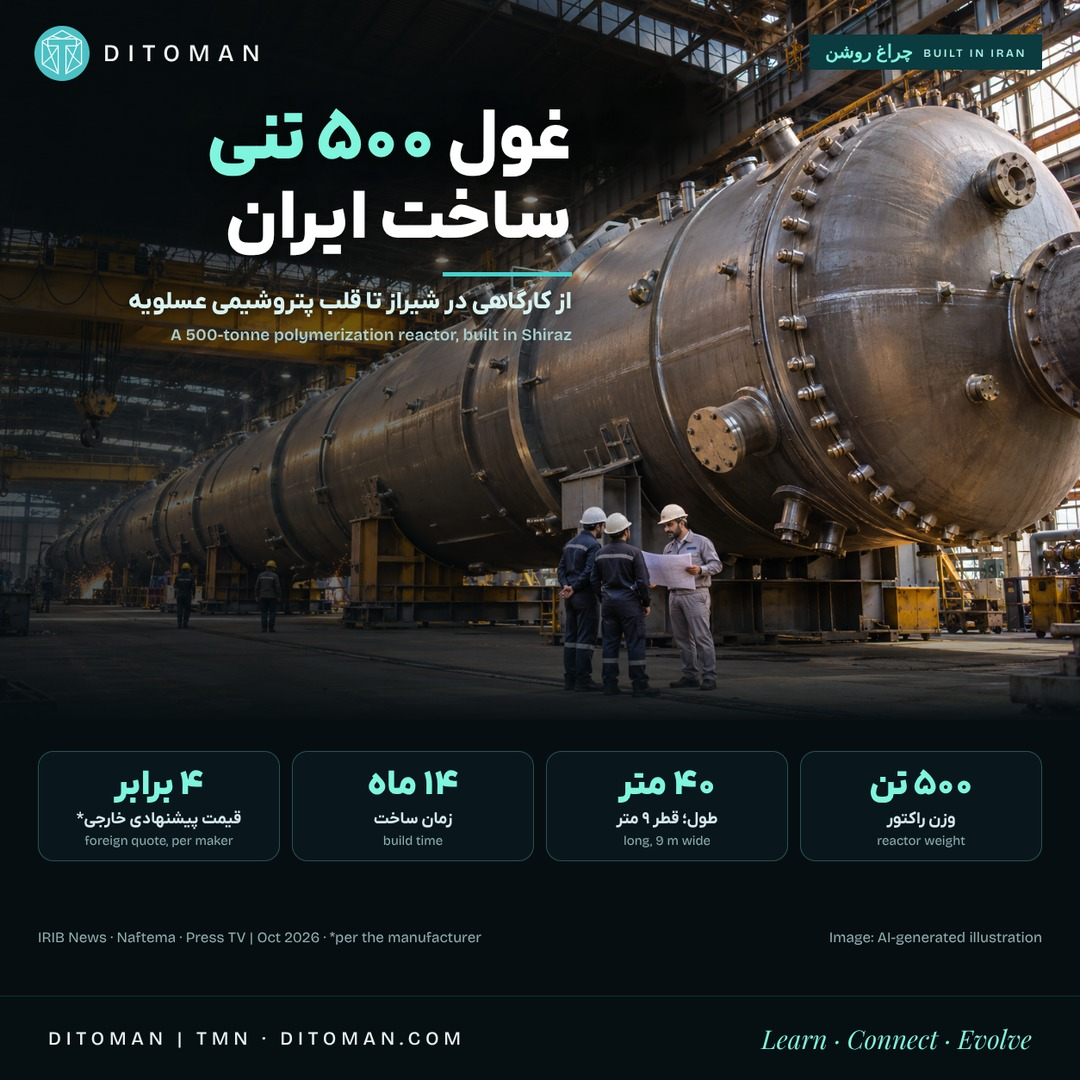
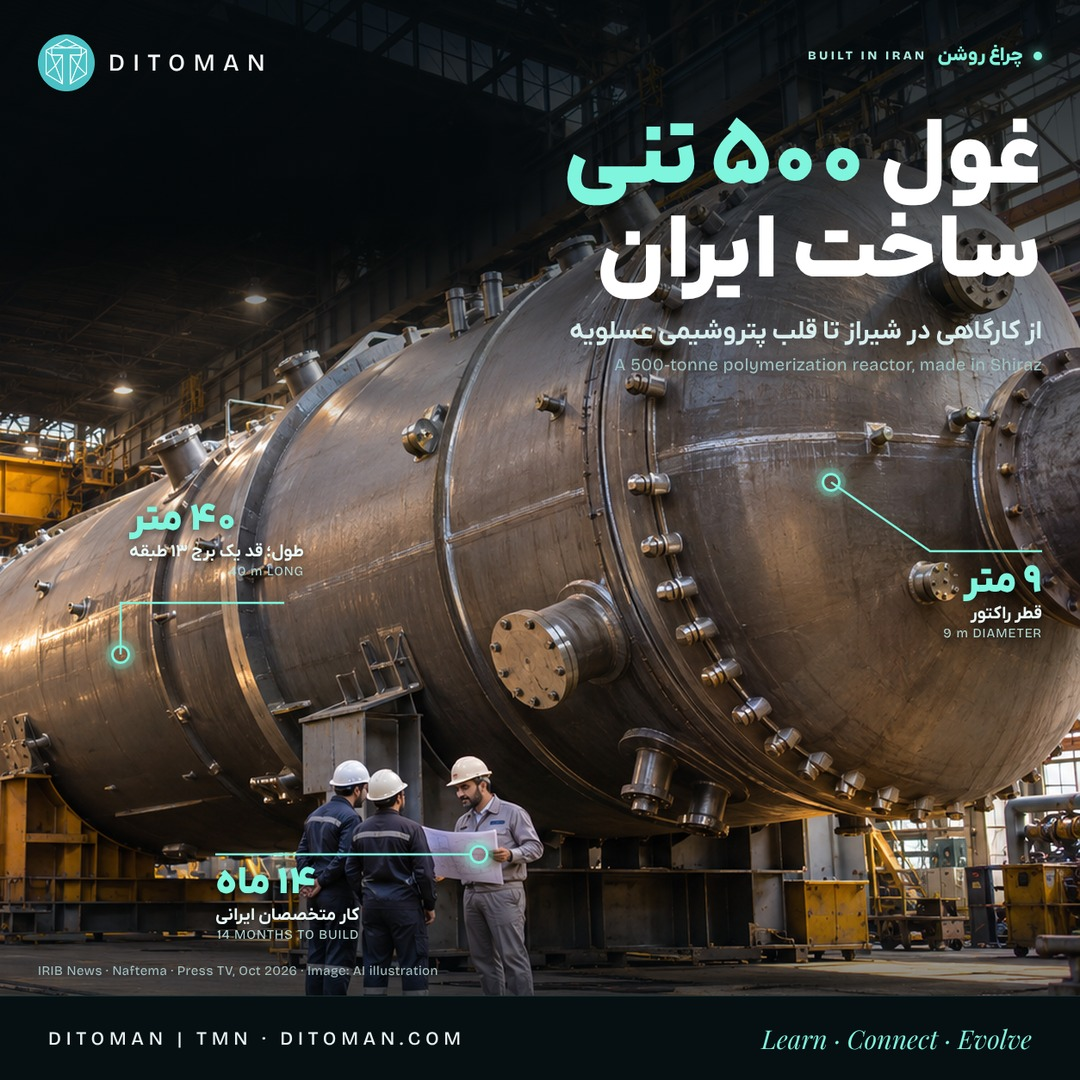
Reactor story: new annotated cover, fuller two-part Telegram draft
Claude-Session: https://claude.ai/code/session_012uZ8KiEEJt1CcpRZeg7KSX

diff --git a/telegram/drafts/2026-11-08-03-fateh-reactor.md b/telegram/drafts/2026-11-08-03-fateh-reactor.md
@@ -1,49 +1,35 @@
 image: social/fateh-reactor/post.png
 
-🇮🇷 غول ۵۰۰ تنی ساخت ایران؛ از کارگاه شیراز تا قلب صنعت پتروشیمی
+🇮🇷 غول ۵۰۰ تنی ساخت ایران؛ از کارگاه شیراز تا قلب صنعت پتروشیمی (۱ از ۲)
 
-تصور کنید سازهای فولادی، تقریباً به طول یک ساختمان ۱۳ طبقه، باید ساخته شود؛ با وزن حدود ۵۰۰ تن، برای کار در قلب یک واحد پتروشیمی.
+تصور کنید سازهای فولادی، تقریباً به طول یک ساختمان ۱۳ طبقه، باید ساخته شود؛ سازهای با وزن حدود ۵۰۰ تن که قرار است در قلب یک واحد پتروشیمی کار کند.
 
-طبق گزارشهای مهر ۱۴۰۵، متخصصان ایرانی چنین راکتوری را در کارگاه شرکت فاتح صنعت در شیراز ساختهاند و آمادهی انتقال و نصب در عسلویه است:
-▫ طول حدود ۴۰ متر و قطر ۹ متر
-▫ زمان ساخت حدود ۱۴ ماه (طبق یک گزارش صنعتی)
+طبق گزارشهای منتشرشده در مهر ۱۴۰۵، چنین راکتوری به دست متخصصان ایرانی در کارگاه شرکت فاتح صنعت در شیراز ساخته شده و برای انتقال و نصب در عسلویه آماده است. برخی گزارشها کارفرما را پتروشیمی آریاساسول معرفی کردهاند؛ گزارش رسمی نام کارفرما را نیاورده است.
+
+📐 مشخصات اعلامشده
+▫ وزن: حدود ۵۰۰ تن
+▫ طول: حدود ۴۰ متر؛ قطر: ۹ متر
+▫ زمان ساخت: حدود ۱۴ ماه (طبق یک گزارش صنعتی)
 ▫ نورد ورق فولادی تا ضخامت حدود ۳۱۰ میلیمتر
-▫ به گفتهی سازنده، قیمت پیشنهادی خارجی برای تجهیز مشابه حدود ۴ برابر هزینهی ساخت داخلی بود
-برخی گزارشها کارفرما را پتروشیمی آریاساسول گفتهاند؛ گزارش رسمی نام کارفرما را نیاورده است.
+مهدی قطبی، مدیر شرکت سازنده، گفته راکتور کاملاً به دست متخصصان ایرانی ساخته شده و به گفتهی او پیش از این فقط ژاپن، آلمان و چین فناوری ساخت چنین راکتوری را داشتند. این ادعای سازنده است و فهرست مستقلی برای آن پیدا نکردیم.
+
+🧪 این سازه فقط یک مخزن بزرگ نیست
+نامش راکتور پلیمریزاسیون است؛ تجهیزی که در آن، مواد اولیه طی یک فرایند کنترلشده به پلیمر تبدیل میشوند.
 
 🏭 راکتور چه ربطی به زندگی ما دارد؟
-این یک راکتور پلیمریزاسیون است: مواد اولیه درونش با کنترل دقیق دما و فشار به پلیمر تبدیل میشوند. پلیمرها در لولهی آب، بستهبندی غذا، قطعات خودرو، عایق کابل و بعضی تجهیزات پزشکی هستند. نوع پلیمر و ظرفیت این راکتور هنوز اعلام نشده است.
+پلیمرها خانوادهی بزرگی از موادند که در زندگی روزمرهی همهی ما حضور دارند: از لولههای آب و بستهبندی مواد غذایی تا قطعات خودرو، عایق سیم و کابل و بعضی تجهیزات پزشکی.
+درون راکتور، دما و فشار باید بهدقت کنترل شود تا واکنش شیمیایی ایمن انجام شود و محصول کیفیت لازم را داشته باشد. هرچه راکتور بزرگتر باشد، ساختش به ورق ضخیمتر، جوشکاری دقیقتر و بازرسی سختگیرانهتری نیاز دارد.
+نوع دقیق پلیمر، فشار کاری و ظرفیت تولید این راکتور هنوز اعلام نشده؛ پس نمیشود گفت مشخصاً مواد اولیهی کدام کالاها را میسازد.
 
-💵 ارزش ارزی از سه مسیر
-1⃣ کاهش واردات: ارزی که برای خرید خارجی لازم بود، در کشور میماند (رقم واقعی بعد از کسر قطعات و خدمات وارداتی معلوم میشود)
-2⃣ صادرات تجهیزات و خدمات: طبق «میز انرژی»، گروه سازنده پیشتر در عمان، آذربایجان و ترکیه کار کرده است
-3⃣ صادرات محصول: آریاساسول طبق گزارش ۱۴۰۲ بیش از ۷۰٪ محصولش را صادر میکرد
+💵 این پروژه چطور برای ایران ارزش ارزی ایجاد میکند؟ سه مسیر جدا:
 
-🌍 چه کسانی چنین تجهیزاتی میسازند؟
-به گفتهی مدیر شرکت سازنده، پیشتر فقط ژاپن، آلمان و چین چنین راکتوری ساخته بودند؛ نمونهها: thyssenkrupp Uhde در آلمان، UBE و Japan Steel Works در ژاپن. راکتورها از نظر اندازه، فشار و فرایند خیلی فرق دارند و مقایسهی منصفانه مشخصات کامل میخواهد.
+1⃣ کاهش نیاز به واردات
+اگر یک مجتمع ایرانی بهجای خرید راکتور خارجی، نمونهای قابلقبول را از سازندهی داخلی تهیه کند، بخشی از ارزی که برای خرید خارجی لازم بود در کشور میماند. به گفتهی سازنده، قیمت پیشنهادی خارجی برای تجهیز مشابه حدود چهار برابر هزینهی ساخت داخلی بوده است. ما به قراردادها دسترسی نداریم؛ صرفهجویی واقعی پس از کسر هزینهی مواد، قطعات، خدمات و تجهیزات وارداتی معلوم میشود.
 
-🔧 چقدر ما را خودکفا میکند؟
-راکتور یک قطعهی کلیدی است، نه کل واحد؛ طراحی فرایند، کاتالیست، کمپرسور، شیرهای تخصصی، ابزار دقیق و سیستم کنترل هم لازم است. پرسش مهم بعدی: چه سهمی از طراحی، مواد، قطعات و آزمونهای همین پروژه در ایران انجام شده؟ بدون این، درصد بومیسازی را نمیشود اعلام کرد.
+2⃣ درآمد ارزی از صادرات تجهیزات و خدمات
+اگر سازندهی ایرانی بتواند تجهیز مشابه، خدمات مهندسی، قطعات یا تعمیر و نگهداری را به مشتری خارجی بفروشد، ارز وارد کشور میشود. طبق گزارش «میز انرژی»، گروه سازنده پیشتر پروژههایی در عمان، جمهوری آذربایجان و ترکیه اجرا کرده است. این به معنی صادرات همین راکتور نیست، ولی سابقهی حضور در بازار منطقه را نشان میدهد.
 
-👷 پشت این پروژه چه کسانی کار میکنند؟
-▫ مهندسی مکانیک، مواد و طراحی تجهیزات
-▫ نورد ورق ضخیم، ماشینکاری و جوشکاری تخصصی
-▫ بازرسی فنی و آزمونهای غیرمخرب
-▫ ساخت قطعات و تجهیزات جانبی
-▫ حمل فوقسنگین تا عسلویه، نصب و نگهداری
-اگر سفارشهای مشابه تکرار شوند، این شرکتها تجربه و تجهیزاتشان را بزرگتر میکنند، نیروی متخصص تربیت میکنند و به بازارهای دیگر میرسند. تعداد کارکنان همین پروژه هنوز اعلام نشده.
+3⃣ صادرات محصول پتروشیمی
+اگر واحد پس از نصب، محصول تولید و صادر کند، فروش آن ارزآوری دارد. برای مقایسه، آریاساسول طبق گزارش ۱۴۰۲ بیش از ۷۰٪ محصولش را به اروپا، آسیا و بازارهای دیگر صادر میکرد. سهم همین راکتور را هنوز نمیشود حساب کرد.
 
-⏳ الان کجاست؟
-گزارشها میگویند آمادهی حمل و نصب است؛ تأیید مستقلی از نصب و راهاندازی پیدا نکردهایم. یک پست قدیمیتر منتسب به سازنده هم از راکتوری بسیار مشابه برای آریاساسول گفته؛ هنوز روشن نیست هر دو یک دستگاهاند یا نه.
-
-🔍 نگاه دیتومان
-اهمیت این داستان فقط در وزن یک سازه نیست. پرسش بزرگتر این است: آیا ایران میتواند با طراحی، ساخت، تعمیر و صادرات تجهیزات، سهم بیشتری از ارزش صنعت را به دست بیاورد؟ فاصلهی فروش مواد اولیه تا ساخت تجهیزاتی که مواد را به محصول تبدیل میکنند، با مهارت، سرمایهگذاری، استاندارد معتبر، سفارش پایدار و دسترسی به بازار طی میشود. این پروژه نمونهای از ظرفیت مهندسی ایران است و ما حمل، نصب و راهاندازیاش را با هم دنبال میکنیم.
-
-💬 اگر ایران در ساخت تجهیزات پیشرفتهی صنعتی جایگاه محکمتری پیدا کند، مهمترین فرصتش چیست: اشتغال، صادرات، انتقال دانش یا کاهش وابستگی؟
-
-📖 گزارش کامل و پروندهی دو شرکت: ditoman.com/fateh-reactor.html
-
-منابع: خبرگزاری صداوسیما، نفت ما، Press TV، میز انرژی، Financial Tribune
-تصویر: تصویرسازی با هوش مصنوعی
-
-#چراغ_روشن #پتروشیمی #ساخت_ایران #ایران_چه_دارد #دیتومان
+⬇ ادامه در پست بعدی

diff --git a/telegram/drafts/2026-11-08-04-fateh-reactor-2.md b/telegram/drafts/2026-11-08-04-fateh-reactor-2.md
@@ -1,0 +1,41 @@
+🇮🇷 غول ۵۰۰ تنی ساخت ایران (۲ از ۲)
+
+🌍 چه کشورهای دیگری چنین تجهیزاتی میسازند؟
+طراحی و ساخت راکتورهای صنعتی و تجهیزات سنگین پتروشیمی در چند کشور انجام میشود:
+▫ آلمان: thyssenkrupp Uhde در طراحی واحدهای پلیمری و تجهیزات فشار بالا
+▫ ژاپن: UBE Machinery سازندهی راکتور پلیمریزاسیون و مخازن فرایندی، و Japan Steel Works با سابقهی ساخت راکتورهای پتروشیمی
+▫ چین: که سازندهی ایرانی هم از آن نام برده
+این مقایسه به معنی یکسان بودن مدلها نیست. راکتورها از نظر اندازه، فشار، جنس و فرایند خیلی فرق دارند؛ مقایسهی فنی و قیمتی منصفانه، مشخصات کامل هر دو طرف را میخواهد.
+
+🔧 چقدر ایران را خودکفا میکند؟
+ساخت این تجهیز یعنی توان ساخت یک بخش مهم از تجهیزات سنگین در داخل؛ اما بهتنهایی یعنی خودکفایی کامل یک واحد پتروشیمی نیست. یک واحد پلیمری علاوه بر راکتور، به طراحی فرایند و لیسانس، کاتالیست، کمپرسور، شیرهای تخصصی، ابزار دقیق، سیستم کنترل و خدمات آزمایشگاهی نیاز دارد.
+پرسش مهم بعدی: چه سهمی از طراحی، مواد، قطعات و آزمونهای همین پروژه در ایران انجام شده و چه بخشی از خارج آمده؟ بدون این، درصد بومیسازی را نمیشود اعلام کرد.
+
+👷 پشت چنین پروژهای چه مشاغلی هست؟
+▫ مهندسی مکانیک، مواد و طراحی تجهیزات
+▫ نورد ورقهای ضخیم، ماشینکاری و جوشکاری تخصصی
+▫ بازرسی فنی، عملیات حرارتی و آزمونهای غیرمخرب
+▫ ساخت فلنج، نازل، قطعات و تجهیزات جانبی
+▫ حمل فوقسنگین از شیراز تا عسلویه، نصب و نگهداری
+اگر سفارشهای مشابه تکرار شوند، این شرکتها تجربه و تجهیزاتشان را گسترش میدهند، نیروی متخصص تربیت میکنند و به بازارهای دیگر میرسند. تعداد کارکنان همین پروژه هنوز اعلام نشده.
+
+⏳ الان کجاست؟
+گزارشها میگویند آمادهی حمل و نصب است؛ تأیید مستقلی از نصب، آزمایش نهایی یا شروع بهرهبرداری پیدا نکردهایم. یک پست قدیمیتر منتسب به سازنده هم از راکتوری بسیار مشابه برای آریاساسول گفته؛ هنوز روشن نیست هر دو یک دستگاهاند یا نه.
+پرسشهایی که دنبالشان هستیم: تاریخ قرارداد، تعداد کارکنان، منشأ مواد و قطعات، هزینهی نهایی و زمان راهاندازی.
+
+🏢 چه کسانی پشت این خبرند؟
+▫ فاتح صنعت (سازنده): شرکتی در شیراز که مبدل حرارتی، کولر هوایی، مخزن تحت فشار، برج، بویلر و راکتور برای نفت، گاز و پتروشیمی میسازد؛ هدف اعلامشدهاش بومیسازی و اشتغال است
+▫ پلیمر آریاساسول (کارفرمای گزارششده): مجتمعی در عسلویه با ۱٫۱ میلیون تن ظرفیت اتیلن و ۷۵۰ هزار تن پلیاتیلن؛ ۱۳۸۱ با مشارکت ساسول آفریقای جنوبی شکل گرفت و از ۱۳۹۲ کاملاً ایرانی است
+
+🔍 نگاه دیتومان
+اهمیت این داستان فقط در وزن یک سازه نیست. پرسش بزرگتر این است: آیا ایران میتواند با طراحی، ساخت، تعمیر و صادرات تجهیزات، سهم بیشتری از ارزش صنعت را به دست بیاورد؟ فاصلهی فروش مواد اولیه تا ساخت تجهیزاتی که مواد را به محصول تبدیل میکنند، با مهارت، سرمایهگذاری، استاندارد معتبر، سفارش پایدار و دسترسی به بازار طی میشود. این پروژه نمونهای از ظرفیت مهندسی ایران است؛ و موفقیتش را باید با عملکرد واقعی، کیفیت، هزینه و توان رقابت سنجید. حمل، نصب و راهاندازیاش را با هم دنبال میکنیم.
+
+💬 اگر ایران در ساخت تجهیزات پیشرفتهی صنعتی جایگاه محکمتری پیدا کند، مهمترین فرصتش چیست: اشتغال، صادرات، انتقال دانش یا کاهش وابستگی؟
+
+📖 گزارش کامل: ditoman.com/fateh-reactor.html
+🏢 پروندهی شرکتها: ditoman.com/fateh-sanat.html و ditoman.com/aryasasol.html
+
+منابع: خبرگزاری صداوسیما، نفت ما، Press TV، میز انرژی، ویکیپدیا، Financial Tribune
+تصویر: تصویرسازی با هوش مصنوعی
+
+#چراغ_روشن #پتروشیمی #ساخت_ایران #ایران_چه_دارد #دیتومان
